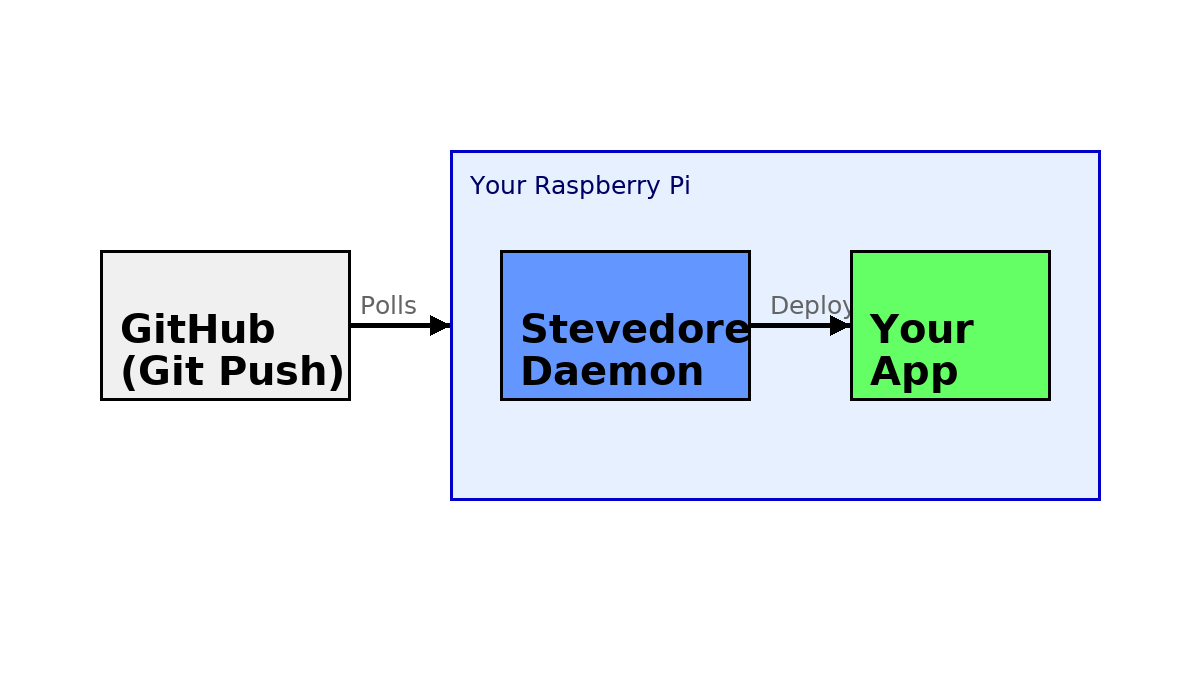
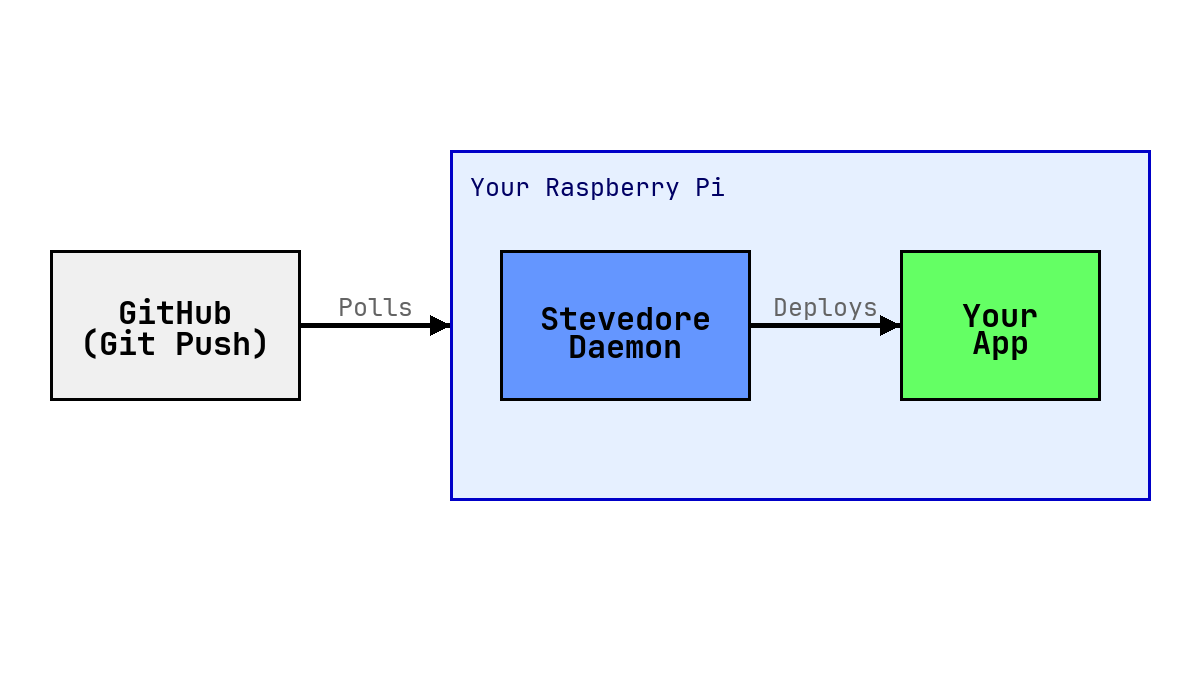
docs: adjust promo image generation for better layout and fonts

diff --git a/blogs/promo/generate_images.py b/blogs/promo/generate_images.py
@@ -1,27 +1,32 @@
 from PIL import Image, ImageDraw, ImageFont
 import os
 
+def get_font(name, size):
+    # Map common names to the JetBrains Mono files we installed
+    font_map = {
+        "bold": "JetBrainsMono-Bold.ttf",
+        "regular": "JetBrainsMono-Regular.ttf",
+        "italic": "JetBrainsMono-Italic.ttf",
+        "code": "JetBrainsMono-Regular.ttf" 
+    }
+    
+    filename = font_map.get(name, "JetBrainsMono-Regular.ttf")
+    path = f"/usr/share/fonts/truetype/jetbrains/{filename}"
+    
+    try:
+        return ImageFont.truetype(path, size)
+    except IOError:
+        print(f"Warning: Could not load {path}, falling back to default.")
+        return ImageFont.load_default()
+
 def create_image(filename, width, height, bg_color, title_text, subtitle_text=None, footer_text=None):
     img = Image.new('RGB', (width, height), color=bg_color)
     d = ImageDraw.Draw(img)
     
-    # Fonts - simplistic approach since we might not have custom fonts
-    # We'll use default, but try to scale it by drawing larger
-    # Actually, let's look for a ttf if possible, or use default
-    try:
-        # Try to use a standard font likely to be in a linux container
-        title_font = ImageFont.truetype("/usr/share/fonts/truetype/dejavu/DejaVuSans-Bold.ttf", 60)
-        subtitle_font = ImageFont.truetype("/usr/share/fonts/truetype/dejavu/DejaVuSans.ttf", 40)
-        footer_font = ImageFont.truetype("/usr/share/fonts/truetype/dejavu/DejaVuSans-Oblique.ttf", 30)
-        code_font = ImageFont.truetype("/usr/share/fonts/truetype/dejavu/DejaVuSansMono.ttf", 30)
-    except IOError:
-        # Fallback to default if specific fonts aren't found
-        print("Warning: Custom fonts not found, using default.")
-        title_font = ImageFont.load_default()
-        subtitle_font = ImageFont.load_default()
-        footer_font = ImageFont.load_default()
-        code_font = ImageFont.load_default()
-
+    title_font = get_font("bold", 60)
+    subtitle_font = get_font("regular", 40)
+    footer_font = get_font("italic", 30)
+    
     # Colors
     text_color = (255, 255, 255)
     accent_color = (0, 255, 127) # Spring Green
@@ -33,17 +38,19 @@ def create_image(filename, width, height, bg_color, title_text, subtitle_text=No
     if subtitle_text:
         d.text((50, 140), subtitle_text, font=subtitle_font, fill=(200, 200, 200))
 
-    return img, d, code_font, text_color, accent_color
+    return img, d, text_color, accent_color
 
 def generate_hero_image():
     width, height = 1200, 675 # Twitter card size
     bg_color = (30, 30, 30) # Dark gray
     
-    img, d, code_font, text_color, accent_color = create_image(
+    img, d, text_color, accent_color = create_image(
         "hero.png", width, height, bg_color, 
         "Stevedore", "GitOps for your Homelab"
     )
     
+    code_font = get_font("code", 28)
+
     # Draw pseudo-terminal
     term_x, term_y = 50, 250
     term_w, term_h = 1100, 350
@@ -89,40 +96,75 @@ def generate_architecture_image():
     img = Image.new('RGB', (width, height), color=bg_color)
     d = ImageDraw.Draw(img)
     
-    try:
-        font_large = ImageFont.truetype("/usr/share/fonts/truetype/dejavu/DejaVuSans-Bold.ttf", 40)
-        font_small = ImageFont.truetype("/usr/share/fonts/truetype/dejavu/DejaVuSans.ttf", 25)
-    except:
-        font_large = ImageFont.load_default()
-        font_small = ImageFont.load_default()
+    # Reduced font size for boxes to ensure fit
+    font_large = get_font("bold", 32)
+    font_small = get_font("regular", 25)
 
-    # Boxes
+    # Boxes with centered text
     def draw_box(x, y, w, h, color, text):
         d.rectangle([x, y, x+w, y+h], fill=color, outline=(0,0,0), width=3)
-        d.text((x + 20, y + h/2 - 20), text, font=font_large, fill=(0,0,0))
+        
+        # Calculate text size for centering
+        lines = text.split('\n')
+        
+        # Calculate total height of the text block
+        total_text_height = 0
+        line_heights = []
+        for line in lines:
+            bbox = d.textbbox((0, 0), line, font=font_large)
+            # height = bottom - top
+            lh = bbox[3] - bbox[1]
+            # add a bit of leading
+            lh = lh * 1.2
+            line_heights.append(lh)
+            total_text_height += lh
+        
+        # Start Y position
+        current_y = y + (h - total_text_height) / 2
+        
+        for i, line in enumerate(lines):
+            bbox = d.textbbox((0, 0), line, font=font_large)
+            text_width = bbox[2] - bbox[0]
+            
+            # Center X
+            current_x = x + (w - text_width) / 2
+            
+            d.text((current_x, current_y), line, font=font_large, fill=(0,0,0))
+            current_y += line_heights[i]
 
     # GitHub
-    draw_box(100, 250, 250, 150, (240, 240, 240), "GitHub\n(Git Push)")
+    draw_box(50, 250, 250, 150, (240, 240, 240), "GitHub\n(Git Push)")
     
-    # Arrow 1
-    d.line([350, 325, 450, 325], fill=(0,0,0), width=5)
+    # Arrow 1 (Gap: 300 -> 450, 150px wide)
+    d.line([300, 325, 450, 325], fill=(0,0,0), width=5)
     d.polygon([(450, 325), (430, 315), (430, 335)], fill=(0,0,0))
-    d.text((360, 290), "Polls", font=font_small, fill=(100,100,100))
+    
+    # Centered "Polls" text
+    label1 = "Polls"
+    bbox1 = d.textbbox((0, 0), label1, font=font_small)
+    w1 = bbox1[2] - bbox1[0]
+    d.text((300 + (150 - w1)/2, 290), label1, font=font_small, fill=(100,100,100))
 
     # Stevedore (Host)
-    d.rectangle([450, 150, 1100, 500], fill=(230, 240, 255), outline=(0,0,200), width=3)
+    # Host starts at 450. Daemon is at 500.
+    d.rectangle([450, 150, 1150, 500], fill=(230, 240, 255), outline=(0,0,200), width=3)
     d.text((470, 170), "Your Raspberry Pi", font=font_small, fill=(0,0,100))
 
     # Stevedore Container
     draw_box(500, 250, 250, 150, (100, 150, 255), "Stevedore\nDaemon")
 
-    # Arrow 2
-    d.line([750, 325, 850, 325], fill=(0,0,0), width=5)
-    d.polygon([(850, 325), (830, 315), (830, 335)], fill=(0,0,0))
-    d.text((770, 290), "Deploys", font=font_small, fill=(100,100,100))
+    # Arrow 2 (Gap: 750 -> 900, 150px wide)
+    d.line([750, 325, 900, 325], fill=(0,0,0), width=5)
+    d.polygon([(900, 325), (880, 315), (880, 335)], fill=(0,0,0))
+    
+    # Centered "Deploys" text
+    label2 = "Deploys"
+    bbox2 = d.textbbox((0, 0), label2, font=font_small)
+    w2 = bbox2[2] - bbox2[0]
+    d.text((750 + (150 - w2)/2, 290), label2, font=font_small, fill=(100,100,100))
 
     # App
-    draw_box(850, 250, 200, 150, (100, 255, 100), "Your\nApp")
+    draw_box(900, 250, 200, 150, (100, 255, 100), "Your\nApp")
 
     img.save("blogs/promo/stevedore_architecture.png")
     print("Generated stevedore_architecture.png")
